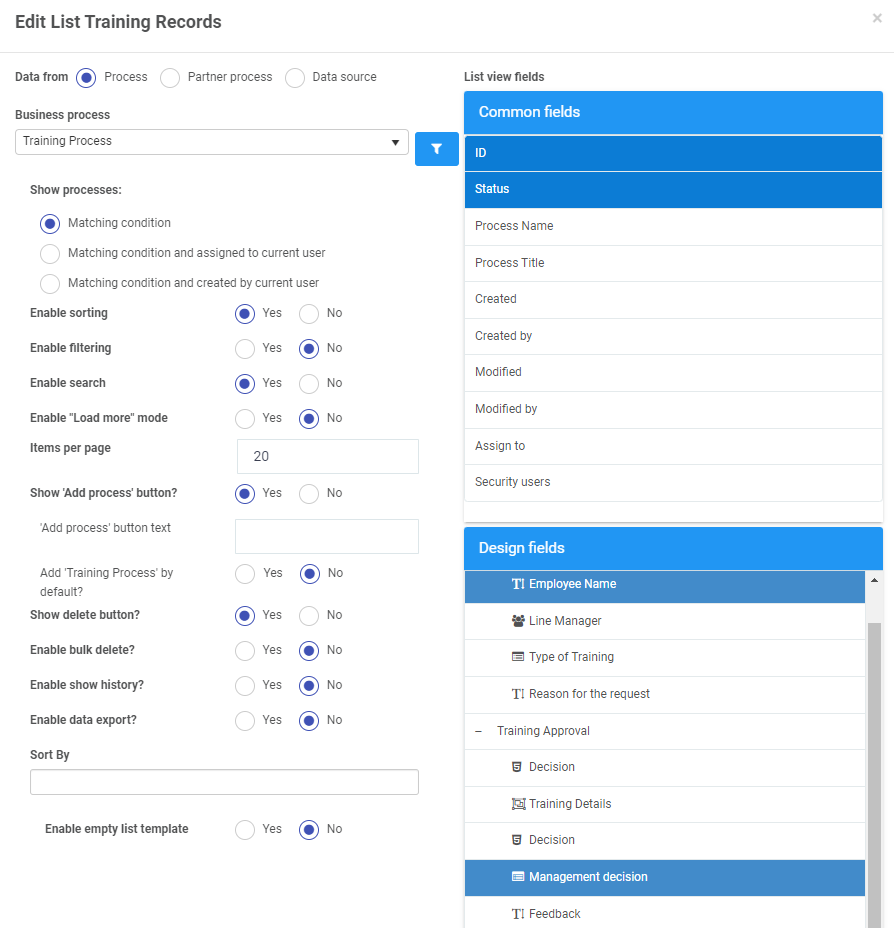
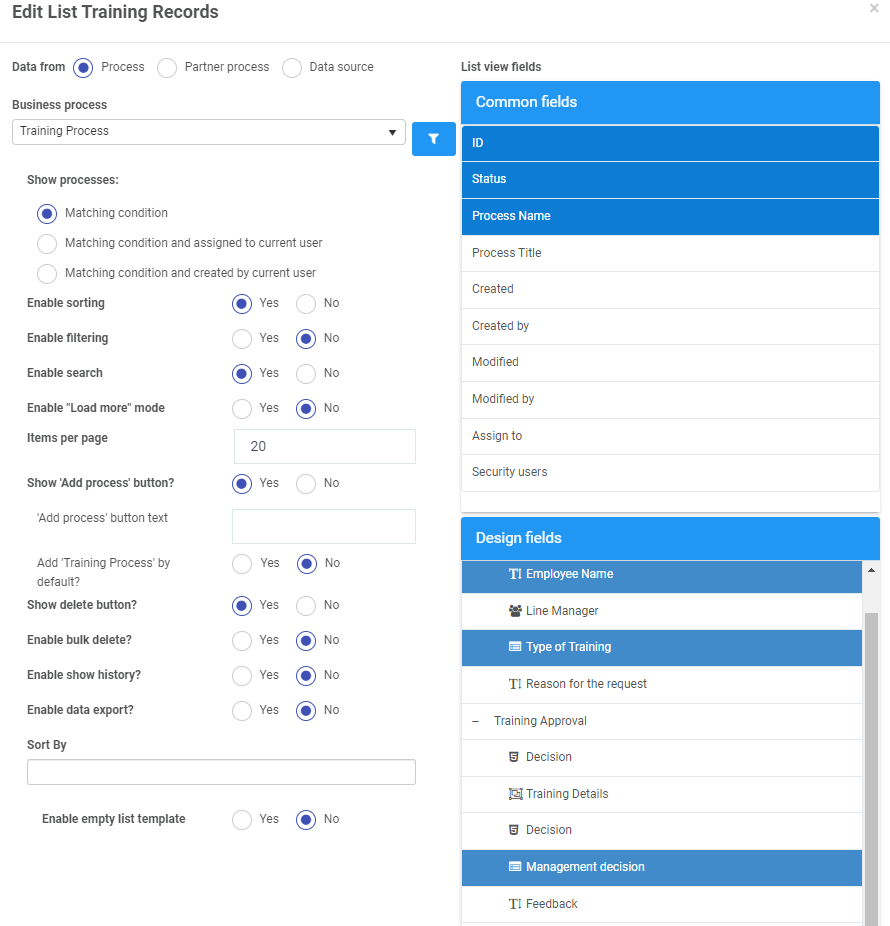
Corrected images
Corrected incorrect images and added in Help information

diff --git a/formelements.md b/formelements.md
@@ -8,8 +8,6 @@ There are 3 categories of Controls, and 10 categories of Rules, see [Controls](/
 
 **Note:** By default there are 3 buttons automatically added to forms - Submit, Save and Close. To edit a button or other field, click on the item and then the **Pen** icon. To remove a button or other field, click on the item and then click on the **Bin/Trash** icon. Click on **OK** to confirm removal. To move a button, or other field, click on the **Drag handle** button.
 
-
-
 To start adding controls and rules, you need to reference your [process plan](processplan.md) and consider what fields and rules you need. 
 
 When building your design, consider:
@@ -86,7 +84,9 @@ In our example we will add a rule to send an automated email to a line manager t
 
    ![Select email users](images/emailusers.png)
 
-   There are various options to choose from when selecting email users. When you click on the **User** button ![User](images/user.png)choose a selection mode to choose a user, for example **User(s) defined in a user field** will allow you to use a field from a form. When you click in the field below **Select a user field** drill down to the field you want, in this case Line Manager. This means when the user submits a form and chooses their Line Manager, an automated email will go to that Line Manager.
+   **Note:** If you leave the **From** field blank, then the email will arrive from "noreply@kianda.com".
+
+   For user fields like **To** and **CC**, there are various options to choose from . When you click on the **User** button ![User](images/user.png)choose a selection mode to choose a user, for example **User(s) defined in a user field** will allow you to use a field from a form. When you click in the field below **Select a user field** drill down to the field you want, in this case Line Manager. This means when the user submits a form and chooses their Line Manager, an automated email will go to that Line Manager.
 
 5. Fill out the **Subject** and **Body** text. You can use the **Expression builder** ![Expression](images/ellipsis.png)to add expressions to the body to personalise the email. 
 
@@ -98,11 +98,11 @@ In our example we will add a rule to send an automated email to a line manager t
 
    - Click on **OK**.
 
-   - Other expressions can be added that use values or status of processes, for example to create a link to review a process, use the ProcessID() expression. Click on **Expression builder** ![Expression](images/ellipsis.png)and **Reference** to get a list of 16 expressions you can use.
+   - Other expressions can be added that use values or status of processes, for example to create a link to review a process, use the ProcessLink() expression. Click on **Expression builder** ![Expression](images/ellipsis.png)and **Reference** to get a list of 16 expressions you can use.
 
-     ![Expression Reference](images/expressionreference.png)
+     ![References](images/references.png)
 
-   Using the ProcessID() expression, text can be entered into the brackets to provide a link in the email as follows:
+   Using the ProcessLink() expression, text can be entered into the brackets to provide a clickable link in the email as follows:
 
    ![ProcessID expression](images/clickhere_frame.png)
 

diff --git a/README2.md b/README2.md
@@ -20,7 +20,7 @@ The layout of the Kianda workspace is as follows:
 
 1. **Company logo** - the top left-hand corner is reserved for uploading your company logos. If you click on the **Collapse navigation** button ![Collapse navigation button](images/navigation_frame.png) you will see the collapsed version of the company logo and collapsed side menu, giving you more real estate in the central view panel.
 
-2. **Side menu** - This left-hand pane contains all the key functions to create and manage your business processes. From this menu you will start **creating** **processes**.
+2. **Side menu** - This left-hand pane contains all the key functions to create and manage your business processes. From this menu you will start **creating** **processes**. In the side menu, under **More**, there are links to get **Help**, **Support**, and give **Feedback**.
 
 3. **Main view** - this central panel is the main view for any of the functions chosen from the side menu. Here you can **view and edit** processes and dashboards.
 
@@ -39,3 +39,10 @@ Go to [Personalise your workspace](workspacepersonalise.md) to find out to chang
 
 
 Before you begin, consider **Kianda's predefined processes**, found in the [App Store](kiandaapps.md), where we in Kianda have done all the hard work for you. 
+
+Remember, at any time if you need help, go to the **side menu** > **More** > **Help**. This will bring you to the Help section where there are a list of searchable FAQs with topics that contain instructions and short help videos.
+
+![Help section](images/help.png)
+
+
+

diff --git a/processpublish.md b/processpublish.md
@@ -54,13 +54,13 @@ To build a dashboard:
 
      ![Configure list widget](images/configurelist.png)
 
-   - In the right-hand pane, click on **Common fields** and/or **Design fields** and select the fields that you want to show in your list widget. Click on **OK** when complete.
+   - In the right-hand pane, click on **Common fields** and/or **Design fields** and select the fields that you want to show in your list widget, in this example the fields **Employee Name**, **Type of Training** and **Management Decision** are chosen from the **Design fields**. Click on **OK** when complete.
 
 7. The result is a dashboard that shows records of Training Requests submitted, and that status of the process, or 'where they are at' in this case they all need to be approved as they have status 'Training Approval', so the dashboard in this case highlights bottlenecks in the organisation.
 
    ![Training dashboard](images/trainingdashboard.png)
 
-   There are endless possibilities with dashboards, the steps above are designed to highlight one particular scenario. When you are happy with your page click on the Save button ![Save changes](images/savepage.png) in the top menu bar.
+   There are endless possibilities with dashboards, the steps above are designed to highlight one particular scenario. When you are happy with your page, click on the Save button ![Save changes](images/savepage.png) in the top menu bar.
 
 
 
